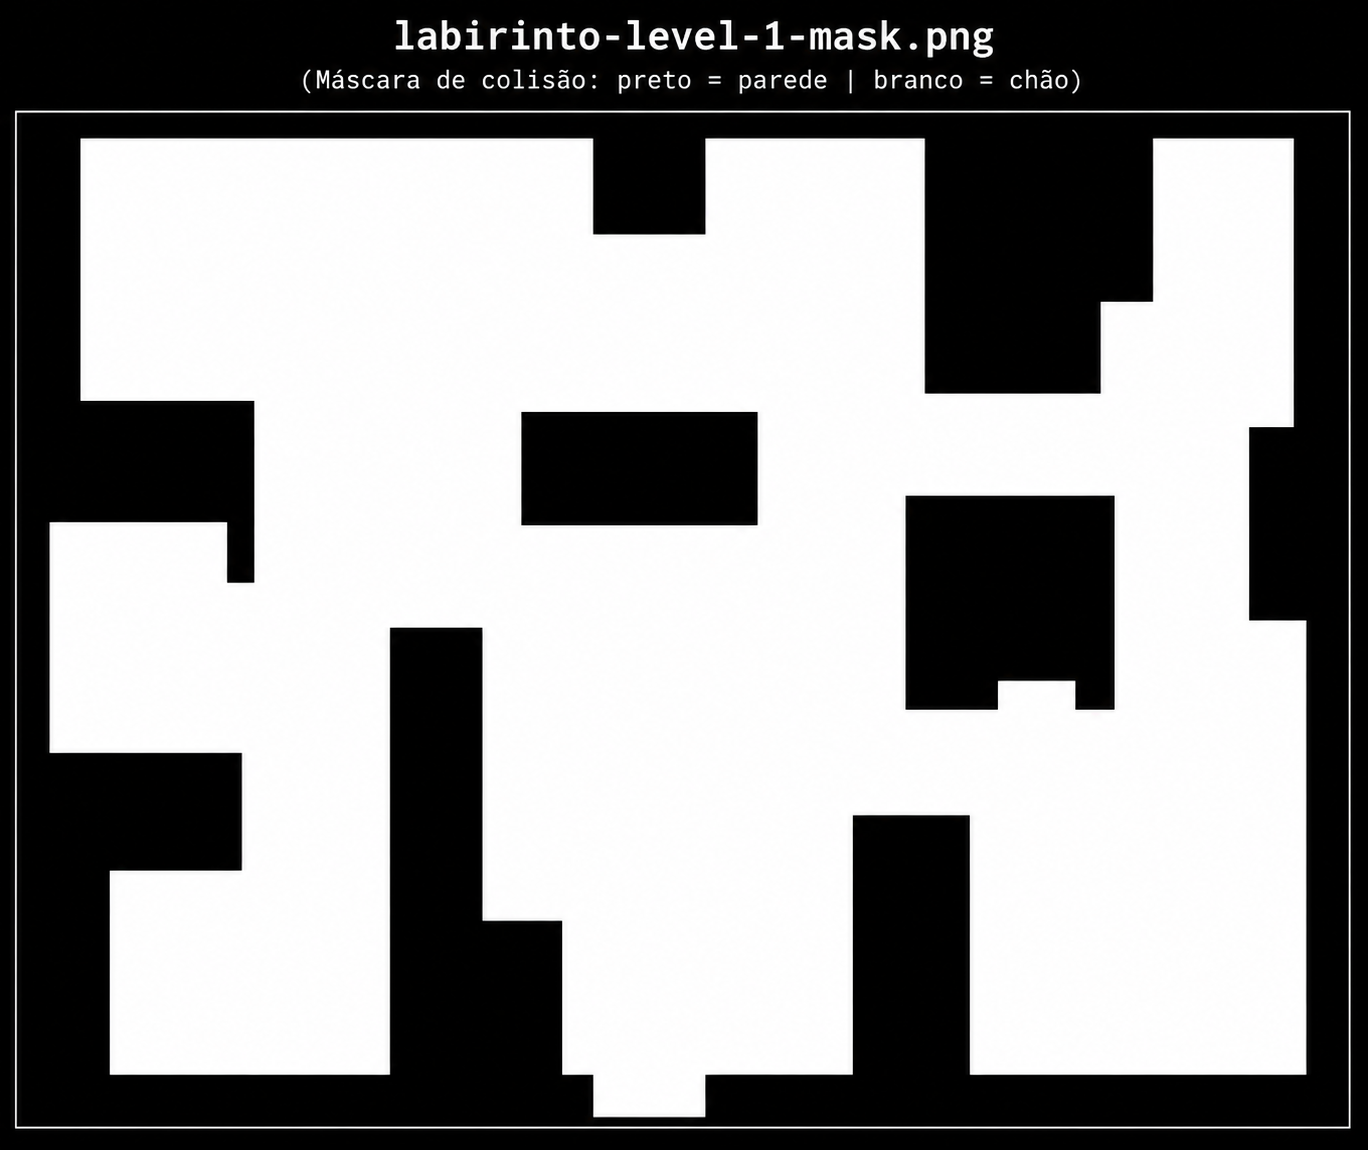
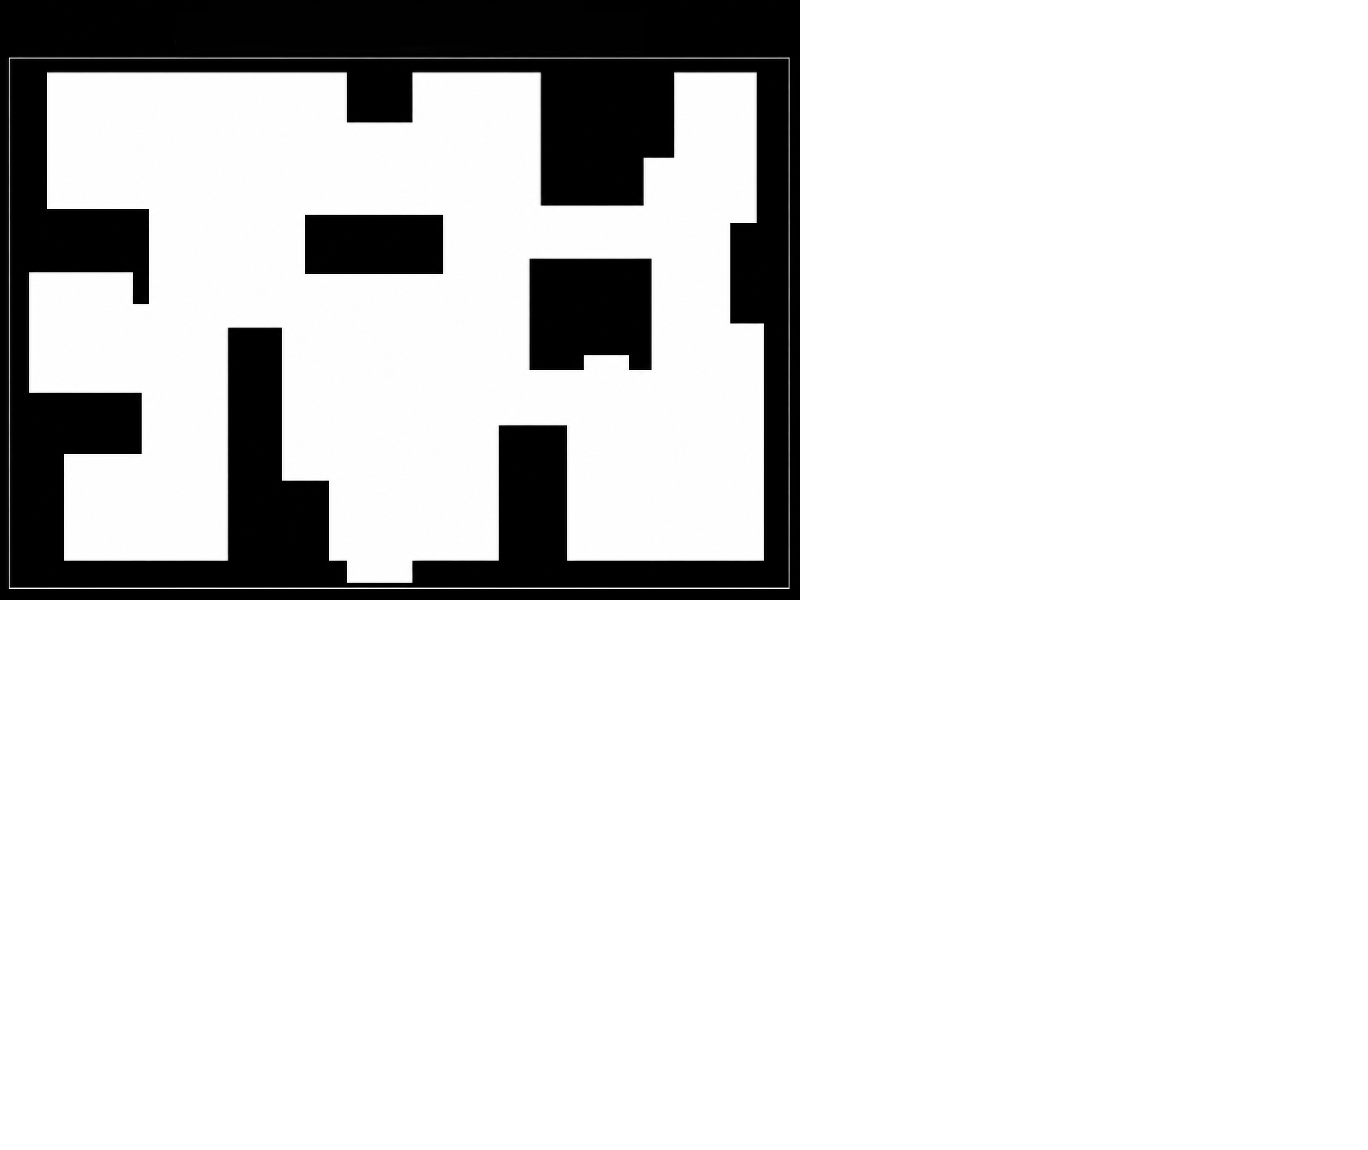
criação do door e key

diff --git a/Level.py b/Level.py
@@ -1,8 +1,11 @@
 import sys
 import pygame as pg
 
+import Door
 from const import BRANCO, WIN_HEIGHT
 from Player import Player
+from Enemy import Enemy
+from Key import Key
 
 
 class Level:
@@ -16,6 +19,10 @@ class Level:
             "assets/imagens/labirinto-level-1.png"
         ).convert()
         self.rect = self.surf.get_rect(topleft=(0, 0))
+        
+        # Máscara de colisão
+        self.mask = pg.image.load(
+            "assets/imagens/labirinto-mascara-de-colisao.png").convert()
 
         # Tempo da fase (60 segundos)
         self.timeout = 60000
@@ -29,18 +36,43 @@ class Level:
             18
         )
 
-        # Entidades do jogo
         self.entities = []
 
         # Jogador
-        self.player = Player(100, 100)
+        self.player = Player(200, 150)
         self.entities.append(self.player)
+        
+        # Chaves
+        self.keys = []
 
+        positions = [
+            (400, 300),
+            (600, 400),
+            (200, 500)
+        ]
+
+        for pos in positions:
+            key = Key(pos[0], pos[1])
+            self.keys.append(key)
+            self.entities.append(key)
+
+        # Inimigos
+        self.enemies = []
+        positions = [(250, 180), (500, 150), (600, 480), (325, 320), (700,200)]
+
+        for pos in positions:
+            enemy = Enemy(pos[0], pos[1])
+            self.entities.append(enemy)
+            self.enemies.append(enemy)
+            
+        # Porta
+        self.door = Door(730, 520)
+        self.entities.append(self.door)
+            
+            
     def run(self):
-        # Música da fase
         pg.mixer.music.load("assets/sons/sommenu.wav")
         pg.mixer.music.play(-1)
-
         running = True
 
         while running:
@@ -58,13 +90,32 @@ class Level:
                 self.timeout -= dt
             else:
                 self.timeout = 0
+            
+            #jogador
+            self.player.update(self.mask)
+            
+            #inimigos
+            for enemy in self.enemies:
+                enemy.update(self.mask)
+                
+            #chaves
+            for key in self.keys:
+                key.update()
 
-            # Atualiza entidades
-            for entity in self.entities:
-                entity.update()
+                if key.collect(self.player):
+                    self.player.has_key = True
+                    print("Chave coletada!")
+                    
+            
+            #porta
+            if self.door.check_exit(self.player):
 
-            # ---------- DESENHO ----------
+                print("FASE CONCLUÍDA!")
 
+                pg.mixer.music.stop()
+
+                return
+            
             # Fundo
             self.window.blit(self.surf, self.rect)
 
@@ -77,7 +128,16 @@ class Level:
                 f"{self.name}",
                 (10, 10)
             )
-
+            if self.player.has_key:
+                self.level_text(
+                    "CHAVE: ABRA A PORTA",
+                    (500, 10)
+                )
+            else:
+                self.level_text(
+                    "CHAVE: FALTA CHAVES",
+                    (500, 10)
+                )
             self.level_text(
                 f"Tempo: {self.timeout/1000:.1f}s",
                 (10, 35)

diff --git a/Enemy.py b/Enemy.py
@@ -1,0 +1,57 @@
+import pygame as pg
+
+
+class Enemy:
+    def __init__(self, x, y):
+        # Imagem
+        self.image = pg.image.load(
+            "assets/imagens/enemy.png"
+        ).convert_alpha()
+
+        self.rect = self.image.get_rect(center=(x, y))
+
+        self.speed = 2
+
+        # Direção inicial
+        self.dx = self.speed
+        self.dy = 0
+
+    def update(self, mask):
+        self.move(mask)
+
+    def move(self, mask):
+
+        next_rect = self.rect.move(self.dx, self.dy)
+
+        if self.collide(mask, next_rect):
+            # bateu na parede → inverte direção
+            self.dx *= -1
+        else:
+            self.rect = next_rect
+
+    def collide(self, mask, rect):
+
+        points = [
+            rect.topleft,
+            rect.topright,
+            rect.bottomleft,
+            rect.bottomright,
+        ]
+
+        for x, y in points:
+
+            if x < 0 or y < 0:
+                return True
+
+            if x >= mask.get_width() or y >= mask.get_height():
+                return True
+
+            color = mask.get_at((x, y))
+
+            if color.r < 20 and color.g < 20 and color.b < 20:
+                return True
+
+        return False
+
+    def draw(self, window):
+        window.blit(self.image, self.rect)

diff --git a/Player.py b/Player.py
@@ -1,4 +1,5 @@
 import pygame as pg
+from pygame import mask
 
 
 class Player:
@@ -14,6 +15,7 @@ class Player:
 
         # Velocidade
         self.speed = 5
+        self.has_key = False
 
         # Direção
         self.dx = 0
@@ -39,15 +41,53 @@ class Player:
         if keys[pg.K_s]:
             self.dy = self.speed
 
-    def move(self):
-        """Move o jogador."""
+    def move(self, mask):
 
-        self.rect.x += self.dx
-        self.rect.y += self.dy
+    # Movimento no eixo X
+        next_rect = self.rect.move(self.dx, 0)
 
-    def update(self):
+        if not self.collide(mask, next_rect):
+             self.rect = next_rect
+
+    # Movimento no eixo Y
+        next_rect = self.rect.move(0, self.dy)
+
+        if not self.collide(mask, next_rect):
+            self.rect = next_rect
+
+    def update(self, mask):
         self.input()
-        self.move()
+        self.move(mask)
 
     def draw(self, window):
         window.blit(self.image, self.rect)
+        
+    def collide(self, mapa, rect):
+
+        pontos = [
+            rect.topleft,
+            rect.topright,
+            rect.bottomleft,
+            rect.bottomright
+        ]   
+
+        for x, y in pontos:
+
+        # Fora do mapa
+            if (
+                x < 0 or
+                y < 0 or
+                x >= mapa.get_width() or
+                y >= mapa.get_height()
+            ):
+                return True
+
+            cor = mapa.get_at((x, y))
+
+        # Preto = parede
+            if cor[:3] == (0, 0, 0):
+                return True
+
+        return False
+        
+    

diff --git a/Key.py b/Key.py
@@ -1,0 +1,31 @@
+import pygame as pg
+
+
+class Key:
+    def __init__(self, x, y):
+        # Imagem da chave
+        self.image = pg.image.load(
+            "assets/imagens/chave.png"
+        ).convert_alpha()
+
+        self.rect = self.image.get_rect(center=(x, y))
+
+        # Indica se a chave já foi coletada
+        self.collected = False
+
+    def update(self):
+        pass
+
+    def draw(self, window):
+        if not self.collected:
+            window.blit(self.image, self.rect)
+
+    def collect(self, player):
+        """
+        Retorna True quando o jogador pega a chave.
+        """
+        if not self.collected and self.rect.colliderect(player.rect):
+            self.collected = True
+            return True
+
+        return False

diff --git a/Door.py b/Door.py
@@ -1,0 +1,25 @@
+import pygame as pg
+
+
+class Door:
+
+    def __init__(self, x, y):
+
+        self.image = pg.image.load(
+            "assets/imagens/door.png"
+        ).convert_alpha()
+
+        self.rect = self.image.get_rect(center=(x, y))
+
+    def update(self):
+        pass
+
+    def draw(self, window):
+        window.blit(self.image, self.rect)
+
+    def check_exit(self, player):
+
+        if player.has_key and self.rect.colliderect(player.rect):
+            return True
+
+        return False

diff --git a/Game.py b/Game.py
@@ -20,8 +20,11 @@ class Game:
             # JOGAR
             if menu_return == MENU_OPTIONS[0]:  
                 level = Level(self.window, name="Nível 1")
-                level.run()
-                
+                result = level.run()
+
+                if result == "WIN":
+                    print("Parabéns!")
+                    
             #SAIR
             elif menu_return == MENU_OPTIONS[3]: 
                 pg.quit()